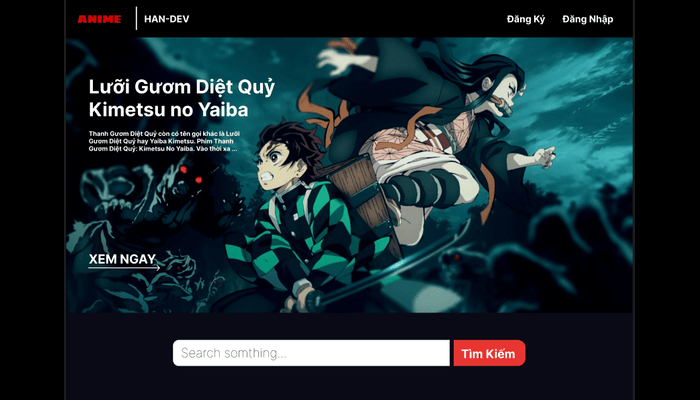
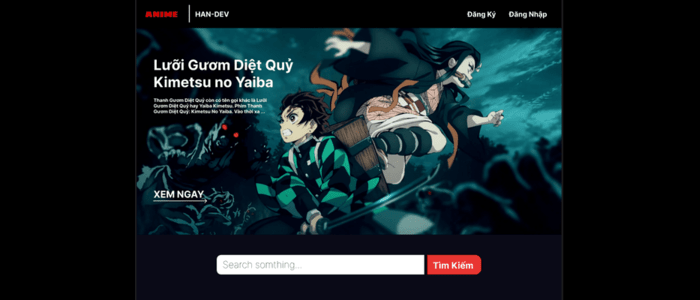
Hoàn thành lab-06-ex2

diff --git a/giao-tiep-nguoi-may/personal-web/ex2.html b/giao-tiep-nguoi-may/personal-web/ex2.html
@@ -1,0 +1,86 @@
+<!DOCTYPE html>
+<html lang="en">
+
+<head>
+    <meta charset="UTF-8">
+    <meta name="viewport" content="width=device-width, initial-scale=1.0">
+    <title>lab-06-ex2</title>
+    <link rel="stylesheet" href="./css/lab-06-ex2.css">
+    <link rel="stylesheet" href="https://cdnjs.cloudflare.com/ajax/libs/remixicon/3.5.0/remixicon.min.css">
+    <link href="https://cdn.jsdelivr.net/npm/bootstrap@5.3.2/dist/css/bootstrap.min.css" rel="stylesheet"
+        integrity="sha384-T3c6CoIi6uLrA9TneNEoa7RxnatzjcDSCmG1MXxSR1GAsXEV/Dwwykc2MPK8M2HN" crossorigin="anonymous">
+</head>
+
+<body>
+    <!-- header -->
+    <div class="my-header row z-3">
+        <a href="./ex2.html" class="logo col-4 d-flex align-items-center justify-content-center text-decoration-none">
+            han calisthenics
+        </a>
+        <div class="information-link d-flex col-6 justify-content-end gap-5 align-items-center pe-2">
+            <a href="#" class="information-link-items  text-decoration-none text-black">Dinh Dưỡng</a>
+            <a href="#" class="information-link-items  text-decoration-none text-black">Tập Luyện</a>
+            <a href="#" class="information-link-items  text-decoration-none text-black">Kiến Thức</a>
+            <a href="#" class="information-link-items  text-decoration-none text-black">Hỗ Trợ</a>
+        </div>
+        <div class="btn-login col-2 d-flex justify-content-center align-items-center">
+            <a class="text-decoration-none text-white d-flex justify-content-center align-items-center" href="#">Đăng
+                Nhập</a>
+        </div>
+    </div>
+    <!-- content -->
+    <div class="my-content">
+        <div class="row">
+            <div class="col-7">
+                <div class="my-content-left"></div>
+            </div>
+            <div class="col-5 my-content-right d-flex position-relative align-items-center justify-content-center pb-5">
+                <div class="w-75 d-flex flex-column gap-5 pb-5">
+                    <div class="small-title text-uppercase">han calisthenics</div>
+                    <div class="big-title">Giới Hạn Do Chính Bạn Đặt Ra</div>
+                    <div class="content-information">Một chương trình tập luyện bằng chính trọng lượng cơ thể của bạn,
+                        cùng
+                        với
+                        những skills đậm chất streetworkout cực ngầu và kết hợp với những kiến thức về dinh dưỡng, chúng
+                        tôi
+                        sẽ
+                        cho bạn một body cực cháy và lối sống healthy!</div>
+                </div>
+                <div class="btn-submit d-flex justify-content-center align-items-center">Đăng Ký Ngay!</div>
+            </div>
+        </div>
+        <div class="row mt-5">
+            <div class="col-6 infor-calis">
+                <div class="infor-calis-title mb-4">CALISTHENICS LÀ GÌ ?</div>
+                <ul class="infor-calis-infor ms-5">
+                    <li>Đây là các bài tập thể dục trị liệu sử dụng trọng lượng cơ thể như một
+                        dạng lực cản để phát triển sức mạnh, sức bền, tính linh hoạt và khả năng phối hợp. Những bài tập
+                        calisthenics quen thuộc bao gồm: squats, chống đẩy, gập bụng,…</li><br>
+                    <li> Calisthenics sử dụng trọng lượng cơ thể để tăng áp lực lên những nhóm cơ bạn muốn luyện tập.
+                        Khi bạn
+                        lặp lại những bài tập calisthenics, nó sẽ hoạt động như một bài tập kháng lực. Từ đó, nâng cao
+                        sức
+                        chịu đựng của cơ thể, đồng thời giúp bạn tăng sức bền khi luyện tập.</li>
+                </ul>
+            </div>
+            <div class="col-6 position-relative">
+                <div class="why-calis mb-4">
+                    TẠI SAO TÔI PHẢI CHỌN CHƯƠNG TRÌNH NÀY?
+                </div>
+                <ul class="infor-calis-infor ms-5">
+                    <li>XÂY DỰNG CƠ BẮP</li>
+                   <li> CÓ MỘT CƠ THỂ SĂN CHẮC, DẺO DAI</li>
+                   <li>TẬP NHỮNG SKILLS KHÁNG LỰC NHƯ: HANDSTAND, PLANCHE...</li>
+                   <li>KIẾN THỨC VỀ GIẢI PHẨU CHUYỂN ĐỘNG</li>
+                   <li>KIẾN THỨC VỀ DINH DƯỠNG</li>
+                </ul>
+                <div class="btn-dang-ky-tap-luyen d-flex justify-content-center align-items-center">Đăng Ký Tập Luyện...</div>
+            </div>
+        </div>
+    </div>
+    <script src="https://cdn.jsdelivr.net/npm/bootstrap@5.3.2/dist/js/bootstrap.bundle.min.js"
+        integrity="sha384-C6RzsynM9kWDrMNeT87bh95OGNyZPhcTNXj1NW7RuBCsyN/o0jlpcV8Qyq46cDfL"
+        crossorigin="anonymous"></script>
+</body>
+
+</html>

diff --git a/giao-tiep-nguoi-may/personal-web/js/lab6.js b/giao-tiep-nguoi-may/personal-web/js/lab6.js
@@ -7,7 +7,8 @@ window.addEventListener('load', () => {
     document.querySelector('#lab-6-debai').addEventListener('click', ()=>renderDeBai(content))
     // xử lý sự kiện cho ex1
     document.querySelector('#lab-6-ex-1').addEventListener('click', ()=>renderEx1(content))
-
+    // xử lý sự kiện cho ex2
+    document.querySelector('#lab-6-ex-2').addEventListener('click', ()=>renderEx2(content))
 })
 const renderDeBai = (content) =>{
     content.innerHTML=`
@@ -24,7 +25,7 @@ const renderDeBai = (content) =>{
 }
 const renderEx1 = (content)=>{
     content.innerHTML = `
-    <h1 class="fst-italic text-decoration-underline mb-4 mt-3">Ex1</h1>
+    <h1 class="fst-italic text-decoration-underline mb-4 mt-3">Ex1 - chủ đề Anime</h1>
     <div class="row justify-content-evenly">
         <button class="col-3 btn btn-info">Design</button>
         <a href="./ex1.html" class="col-3 btn btn-success">Implementation</a>
@@ -33,16 +34,42 @@ const renderEx1 = (content)=>{
         <div class="col-6">
             <div class="d-flex mb-2 gap-2">
                 <h3>Trên Giấy</h3>
-                <a href="./images/page-design-lab-06.jpg" class="btn btn-success" download>tải về</a>
             </div>
             <img class="img-fluid" src="./images/page-design-lab-06.jpg" alt="paper">
+            <div class="text-center mt-2"> <a href="./images/page-design-lab-06.jpg" class="btn btn-success" download>tải về</a></div>
         </div>
         <div class="col-6">
             <div class="d-flex mb-2 gap-2">
                 <h3>Trên Figma</h3>
-                <a href="./images/figma-design-lab-06.png" class="btn btn-success" download>tải về</a>
             </div>
             <img class="img-fluid" src="./images/figma-design-lab-06.png" alt="figma">
+            <div class="text-center mt-2"> <a href="./images/figma-design-lab-06.png" class="btn btn-success" download>tải về</a></div>
+        </div>
+    </div>
+    `
+}
+
+const renderEx2 = (content)=>{
+    content.innerHTML = `
+    <h1 class="fst-italic text-decoration-underline mb-4 mt-3">Ex2 - chủ đề Calisthenics</h1>
+    <div class="row justify-content-evenly">
+        <button class="col-3 btn btn-info">Design</button>
+        <a href="./ex2.html" class="col-3 btn btn-success">Implementation</a>
+    </div>
+    <div class="row mt-3 ">
+        <div class="col-6">
+            <div class="d-flex mb-2 gap-2">
+                <h3>Trên Giấy</h3>
+            </div>
+            <img class="img-fluid" src="./images/page-design-lab-06-ex2.jpg" alt="paper">
+            <div class="text-center mt-2"> <a href="./images/page-design-lab-06-ex2.jpg" class="btn btn-success" download>tải về</a></div>
+        </div>
+        <div class="col-6">
+            <div class="d-flex mb-2 gap-2">
+                <h3>Trên Figma</h3>
+            </div>
+            <img class="img-fluid" src="./images/figma-design-lab-06-ex2.png" alt="figma">
+            <div class="text-center mt-2"> <a href="./images/figma-design-lab-06-ex2.png" class="btn btn-success" download>tải về</a></div>
         </div>
     </div>
     `

diff --git a/giao-tiep-nguoi-may/personal-web/css/lab-06-ex2.css b/giao-tiep-nguoi-may/personal-web/css/lab-06-ex2.css
@@ -1,0 +1,169 @@
+html {
+    font-size: 10px;
+}
+
+* {
+    padding: 0;
+    margin: 0;
+}
+
+body {
+    background: #F6F6F6 !important;
+}
+
+.my-header {
+    top: 0;
+    width: 100%;
+    position: fixed;
+    height: 7.2rem;
+    background: #FFF;
+    box-shadow: 0px 4px 4px 0px rgba(0, 0, 0, 0.25);
+}
+
+.information-link-items {
+    color: #000;
+    font-size: 2rem;
+    font-style: normal;
+    font-weight: 500;
+    line-height: normal;
+}
+
+.logo {
+    color: #000;
+    font-size: 2.4rem;
+    font-style: normal;
+    font-weight: 700;
+    line-height: normal;
+    text-transform: uppercase;
+}
+
+.btn-login a {
+    background-color: #166AEA;
+    width: 15.4rem;
+    height: 4.8rem;
+    border-radius: 3rem;
+    font-size: 2rem;
+    font-weight: 600;
+}
+
+.my-content {
+    margin-top: 7.2rem !important;
+}
+
+.my-content-left {
+    height: 56.1rem;
+    background-image: url('./../images/lab-06-ex2.png');
+    background-repeat: no-repeat;
+}
+
+.small-title {
+    color: #000;
+    text-align: center;
+    font-size: 2rem;
+    font-style: normal;
+    font-weight: 500;
+    line-height: normal;
+}
+
+.big-title {
+    color: #000;
+    text-align: center;
+    font-size: 3.6rem;
+    font-style: normal;
+    font-weight: 700;
+    line-height: normal;
+}
+
+.content-information {
+    color: #000;
+    text-align: center;
+    font-size: 1.6rem;
+    font-style: normal;
+    font-weight: 700;
+    line-height: 2.3rem;
+    /* 143.75% */
+}
+
+.btn-submit {
+    position: absolute;
+    color: #FFF;
+    font-size: 2.8rem;
+    font-style: normal;
+    font-weight: 600;
+    line-height: 2.3rem;
+    background-color: #000;
+    border-radius: 3rem;
+    background: #000;
+    width: 23.3rem;
+    height: 4.7rem;
+    right: 2.9rem;
+    bottom: 8.7rem;
+    cursor: pointer;
+}
+
+.btn-submit:hover {
+    transform: scale(1.2);
+    transition-property: all;
+    transition-duration: 500ms;
+}
+
+.btn-submit:active {
+    transform: scale(1);
+    transition-property: all;
+    transition-duration: 100ms;
+
+}
+
+.infor-calis-title,
+.why-calis {
+    color: #000;
+    text-align: center;
+    font-size: 2.8rem;
+    font-style: normal;
+    font-weight: 600;
+    line-height: 2.3rem;
+    /* 82.143% */
+}
+
+.infor-calis-infor {
+    color: #000;
+    font-size: 1.6rem;
+    font-style: normal;
+    font-weight: 600;
+    line-height: 2.3rem;
+    /* 143.75% */
+}
+
+.btn-dang-ky-tap-luyen {
+    position: absolute;
+    right: 12.2rem;
+    color: #000;
+    font-size: 2rem;
+    font-style: normal;
+    font-weight: 600;
+    line-height: 2.3rem;
+    border-bottom: 0.3rem #000 solid;
+    cursor: pointer;
+}
+.btn-dang-ky-tap-luyen:hover{
+    transition: all 500ms;
+    color: #FFF;
+    width: 23.3rem;
+    height: 4.7rem;
+    font-style: normal;
+    font-weight: 600;
+    background-color: #000;
+    border-radius: 3rem;
+    background: #000;
+}
+.btn-dang-ky-tap-luyen:active{
+    transition: 100ms;
+    transform: scale(0.9);
+}
+.btn-login:hover{
+    transition: all 300ms;
+    transform: scale(1.1);
+}
+.btn-login:active{
+    transform: scale(0.9);
+}

diff --git a/giao-tiep-nguoi-may/personal-web/ex1.html b/giao-tiep-nguoi-may/personal-web/ex1.html
@@ -33,9 +33,8 @@
             <div class="col-5 d-flex flex-column justify-content-evenly ps-5">
                 <div class="title">
                     <div class="big-title h1 ">Lưỡi Gươm Diệt Quỷ <br> Kimetsu no Yaiba </div>
-                    <div class="small-title">
-                        Thanh Gươm Diệt Quỷ còn có tên gọi khác là Lưỡi Gươm Diệt Quỷ hay Yaiba Kimetsu. Phim Thanh Gươm
-                        Diệt Quỷ: Kimetsu No Yaiba. Vào thời xa ...
+                    <div class="small-title overflow-hidden line">
+                        Thanh Gươm Diệt Quỷ còn có tên gọi khác là Lưỡi Gươm Diệt Quỷ hay Yaiba Kimetsu. Phim Thanh Gươm Diệt Quỷ: Kimetsu No Yaiba. Vào thời xa xưa, có một truyền thuyết về những con quỷ ăn thịt người luôn lãng vãng trong cánh rừng sâu. Vì điều này, người dân trong làng không bao giờ đi ra ngoài vào trời tối. Truyền thuyến cũng kể rằng có một Sát Quỷ Nhân luôn xuất hiện vào ban đêm để tiêu diệt những con quỷ khát máu này. Đối với chàng trai trẻ Tanjiro, câu chuyện dân gian ấy đã trở thành hiện thực cay đắng mà cậu phải hứng chịu...Sau khi cha cậu qua đời, Tanjiro luôn cố gắng hết sức để trở thành trụ cột trong gia đình. Dù cuộc sống vất vả, cực khổ, những gia đình của cậu vẫn luôn ngập tràn hạnh phúc. Nhưng niềm hạnh phúc ấy cũngkhông kéo dài lâu được. Một ngày nọ, khi Tanjiro trở về, cậu phát hiện gia đình mình đã bị sát hại dã man, và chỉ có một người duy nhất sống sót, đó là em gái Nezuko của cậu. Nhưng bi kịch thay, Nezuko đã trở thành con quỷ đáng sợ. Tuy nhiên, cô vẫn còn giữ một chút nhân tính. Đó là thời điểm bắt đầu cuộc chiến đơn độc của Tanjiro, tiêu diệt quỷ và tìm cách biến em gái mình trở lại làm người.
                     </div>
                 </div>
                 <div class="btn-xem-ngay">

diff --git a/giao-tiep-nguoi-may/personal-web/css/lab-06-ex1.css b/giao-tiep-nguoi-may/personal-web/css/lab-06-ex1.css
@@ -42,9 +42,10 @@
     height: 20dvh;
 }
 .my-search button{
+    text-wrap: nowrap;
+    box-sizing: border-box;
     height: 35%;
     background-color: #E83531;
-    width: 10%;
     border-radius: 1px 15px 15px 1px;
     font-size: large;
 }
@@ -52,4 +53,7 @@
     border-radius: 15px 1px 1px 15px;
     width: 50%;
     height: 35%;
+}
+.small-title{
+    max-height: 6em;
 }

diff --git a/giao-tiep-nguoi-may/personal-web/lab6.html b/giao-tiep-nguoi-may/personal-web/lab6.html
@@ -38,7 +38,7 @@
                             </a>
                         </li>
                         <li>
-                            <a href="#" class="nav-link link-dark">
+                            <a href="#" class="nav-link link-dark" id="lab-6-ex-2">
                                 Ex2
                             </a>
                         </li>
